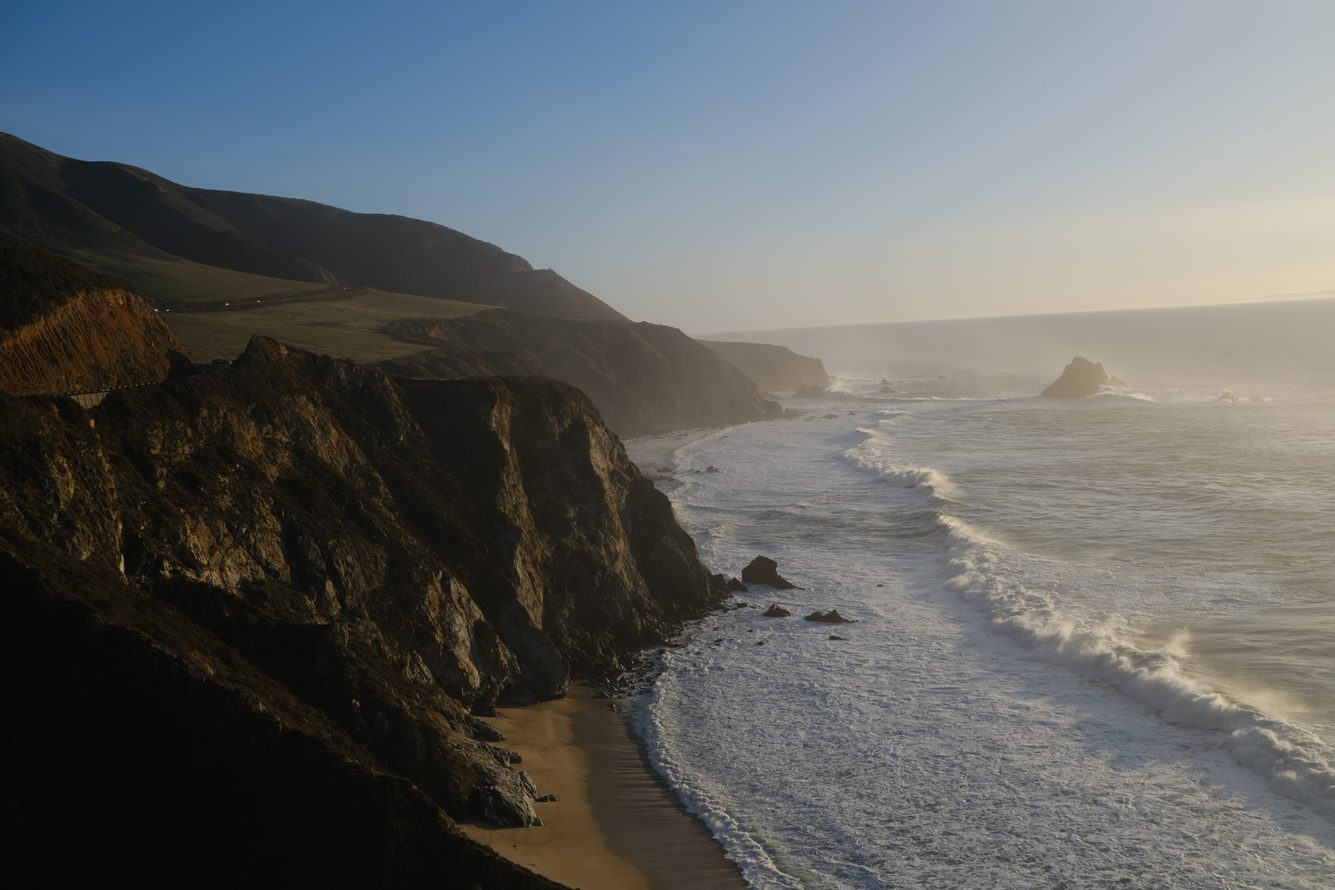
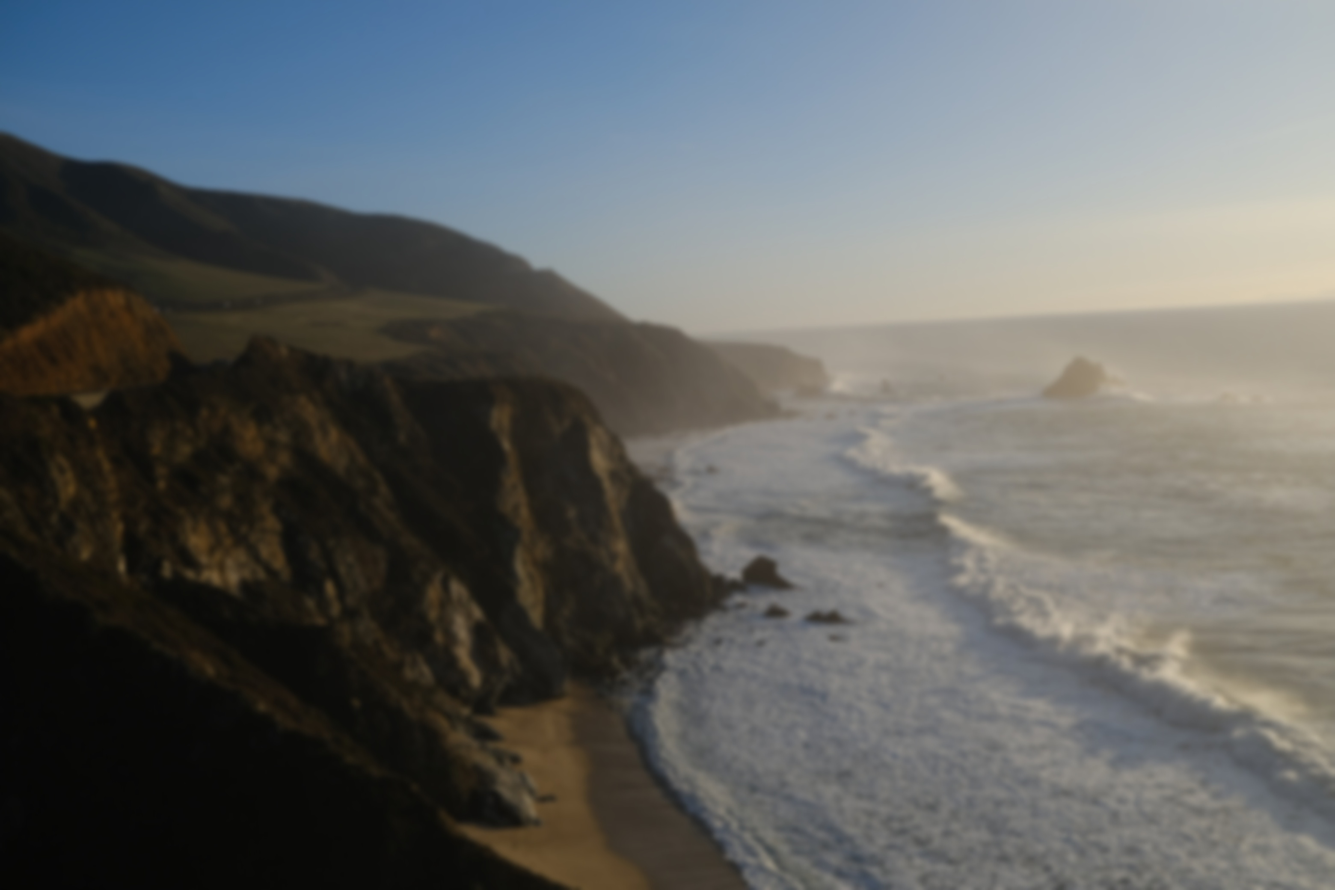
updates

diff --git a/components/First.tsx b/components/First.tsx
@@ -1,34 +1,46 @@
 import styles from "../styles/Home.module.css";
 import { Scene } from "react-scrollmagic";
+import { useInView } from "react-intersection-observer";
 
 const First = () => {
+    const [ref, inView] = useInView({
+        threshold: 0.6,
+    });
     return (
-        <Scene pin>
-            <div className={styles.background}>
-                <div className={styles.textWrapper}>
-                    <div className={styles.middle}>My name is Josh Chun</div>
-                    <div
-                        className={styles.middle}
-                        id={styles.bottom}
-                        style={{ ["--fadeoffset" as any]: 3.0 }}
-                    >
-                        {` I'm currently a student at the University of Notre Dame
+        <div ref={ref}>
+            <Scene pin>
+                <div className={styles.background}>
+                    {inView && (
+                        <>
+                            <div className={styles.textWrapper}>
+                                <div className={styles.middle}>
+                                    My name is Josh Chun
+                                </div>
+                                <div
+                                    className={styles.middle}
+                                    id={styles.bottom}
+                                    style={{ ["--fadeoffset" as any]: 3.0 }}
+                                >
+                                    {` I'm currently a student at the University of Notre Dame
                         studying Computer Science. An advocate for Web
                         Development, UNIX, Machine Learning, and pineapple on
                         pizza. `}
-                    </div>
+                                </div>
+                            </div>
+                            <div
+                                className={styles.container}
+                                style={{ ["--fadeoffset" as any]: 3.0 }}
+                            >
+                                <div className={styles.chevron}></div>
+                                <div className={styles.chevron}></div>
+                                <div className={styles.chevron}></div>
+                                <div className={styles.middle}>Scroll Down</div>
+                            </div>
+                        </>
+                    )}
                 </div>
-                <div
-                    className={styles.container}
-                    style={{ ["--fadeoffset" as any]: 3.0 }}
-                >
-                    <div className={styles.chevron}></div>
-                    <div className={styles.chevron}></div>
-                    <div className={styles.chevron}></div>
-                    <div className={styles.middle}>Scroll Down</div>
-                </div>
-            </div>
-        </Scene>
+            </Scene>
+        </div>
     );
 };
 

diff --git a/styles/Home.module.css b/styles/Home.module.css
@@ -3,35 +3,21 @@
     justify-content: center;
     align-items: center;
     flex-direction: column;
-    position: relative;
-    /* width: 100vw; */
+    /* position: relative; */
     height: 100vh;
     overflow: hidden;
-    /* height: 100vh; */
-    /* scroll-snap-align: start; */
-}
-
-.background:after {
-    content: "";
-    position: absolute;
-    z-index: 1;
-    top: 0;
-    left: 0;
-    right: 0;
-    bottom: 0;
-    background-image: url("/background.jpg");
+    background-image: url("/background_.jpg");
+    filter: brightness(95%) saturate(120%);
     background-position: center;
     background-size: cover;
     background-repeat: no-repeat;
-    filter: blur(5.5px) brightness(95%) saturate(120%);
-    transform: scale(1.1);
 }
 
-#two:after {
+#two {
     background-image: url("/bigsur.jpg");
 }
 
-#three:after {
+#three {
     background-image: url("/laguna.jpg");
 }
 

diff --git a/components/Second.tsx b/components/Second.tsx
@@ -4,7 +4,7 @@ import { useInView } from "react-intersection-observer";
 
 const Second = () => {
     const [ref, inView] = useInView({
-        threshold: 0.7,
+        threshold: 0.6,
     });
     return (
         <div ref={ref}>

diff --git a/components/Third.tsx b/components/Third.tsx
@@ -4,7 +4,7 @@ import { useInView } from "react-intersection-observer";
 
 const Third = () => {
     const [ref, inView] = useInView({
-        threshold: 0.7,
+        threshold: 0.6,
     });
     return (
         <div ref={ref}>

diff --git a/pages/index.tsx b/pages/index.tsx
@@ -22,10 +22,4 @@ const Home: NextPage = () => {
     );
 };
 
-export async function getStaticProps() {
-    return {
-        props: { "/background.jpg": {}, "/bigsur.jpg": {} },
-    };
-}
-
 export default Home;
